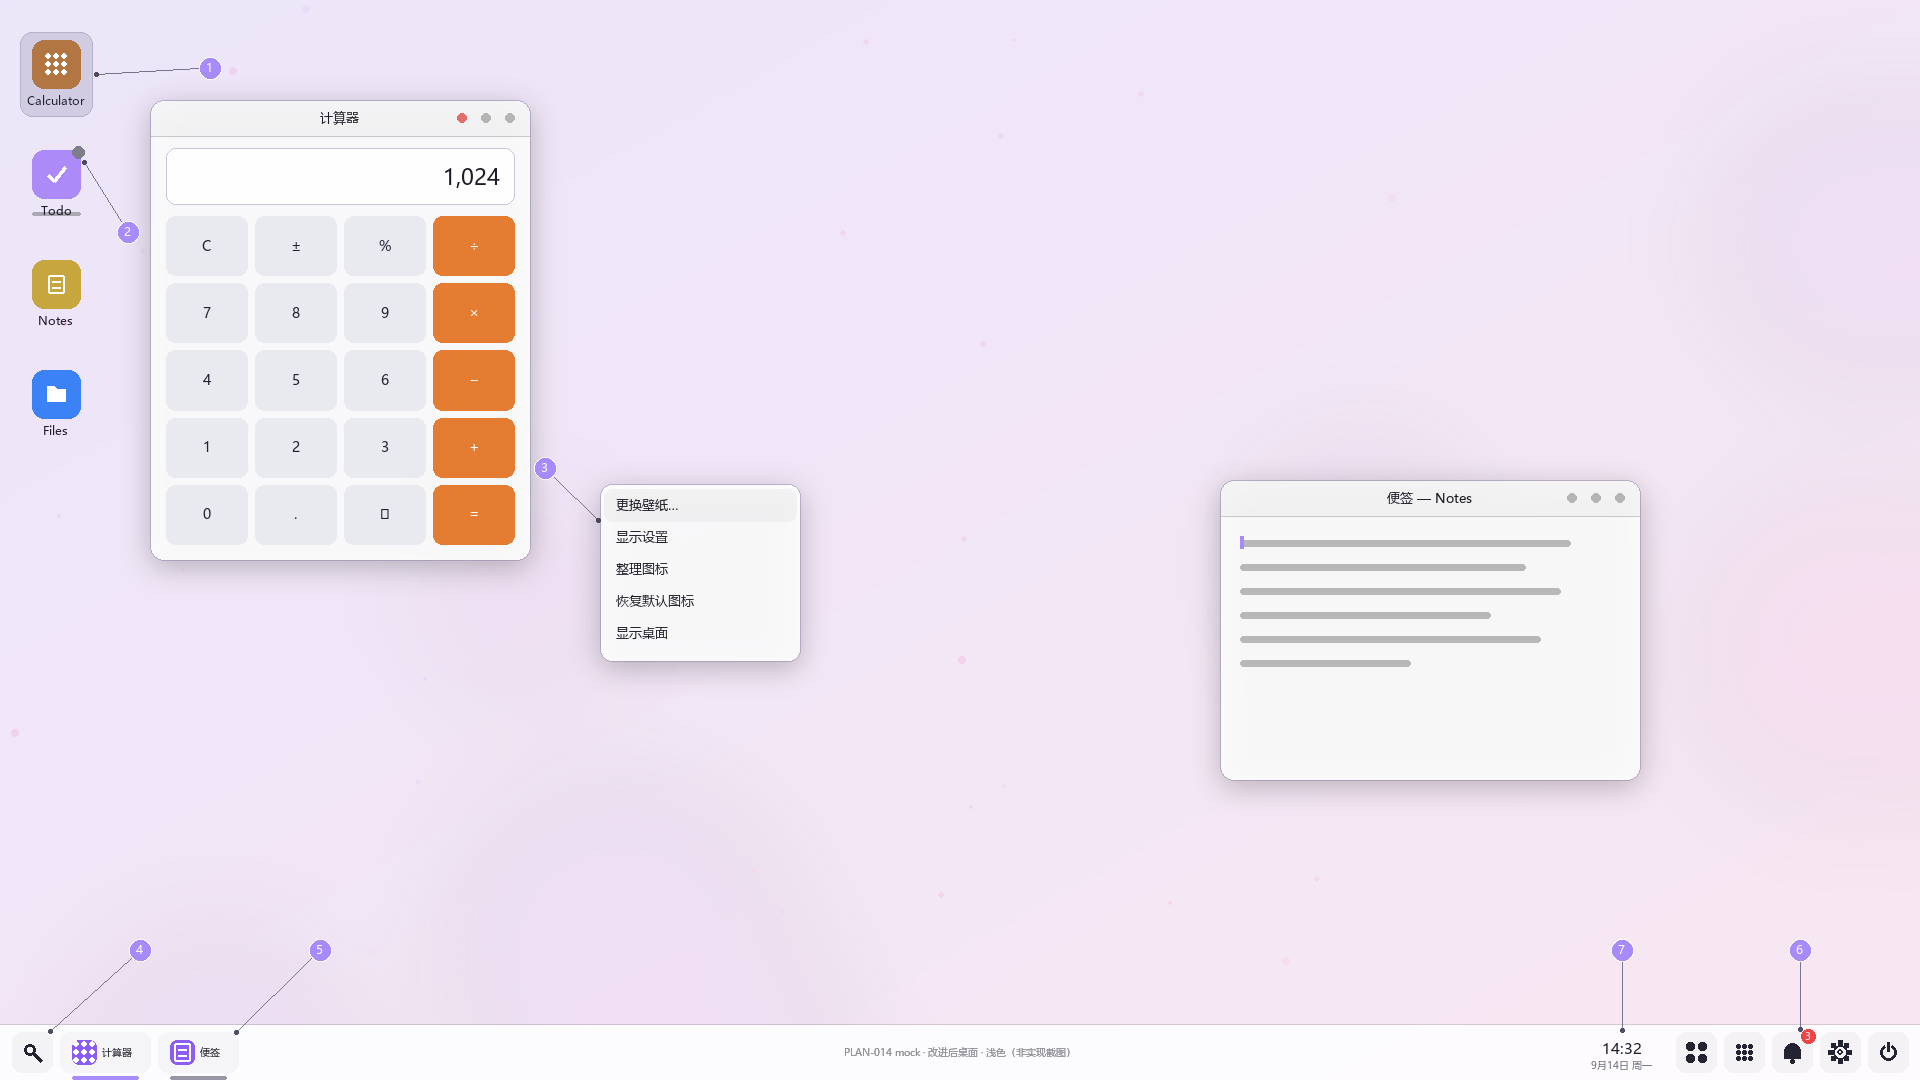
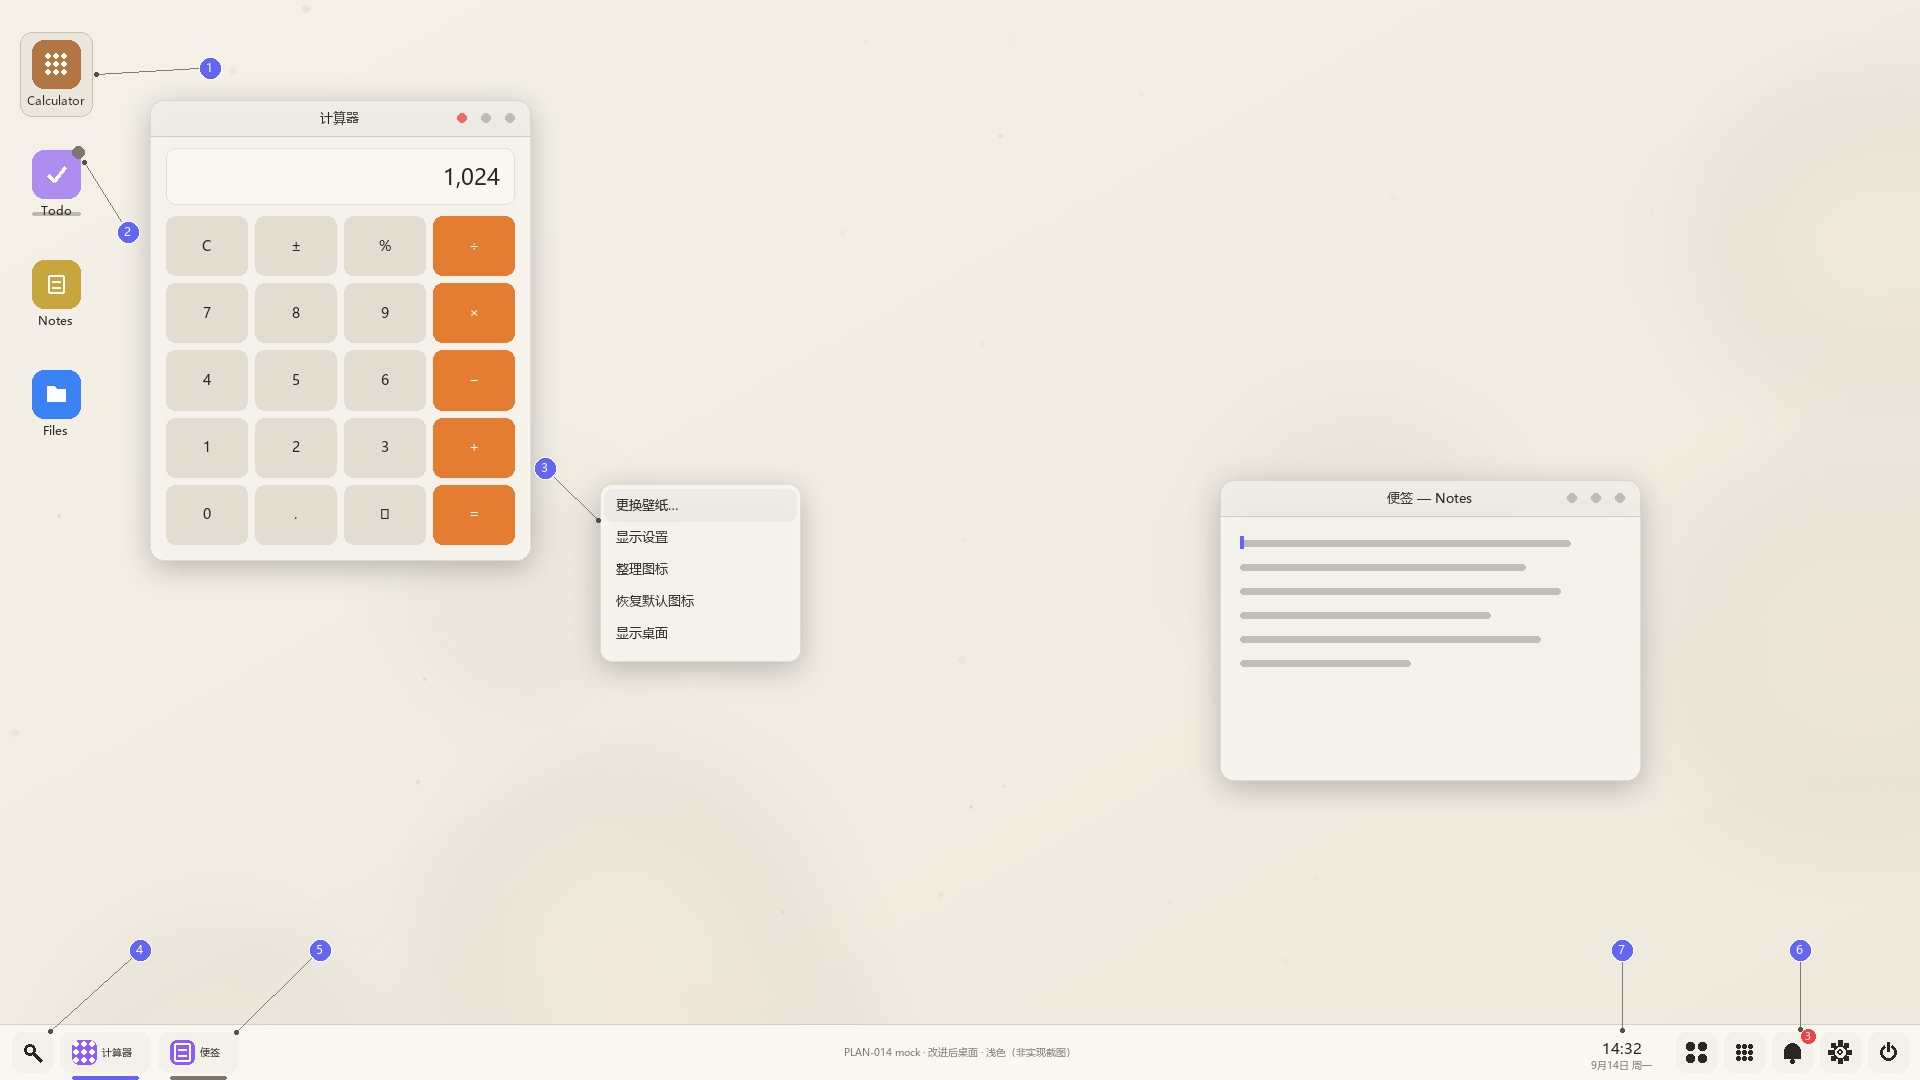
docs(plan014): 浅色 mock 按 stella light 实测 token 纠偏重画（#F5F1E8 奶油底/#6466F1 indigo accent，事实源 design_tokens/registry.rs；首轮误画 shadcn 粉紫通用浅色）；计划回填 stella 映射口径+双轨默认主题不一致挂 Q5（VM stella vs Vue scaffold）

diff --git a/tmp/os014_mock.py b/tmp/os014_mock.py
@@ -49,41 +49,44 @@ THEMES = {
         "preselect_fill": ACCENT_DEEP + (150,), "preselect_border": ACCENT + (220,), "preselect_text": WHITE,
         "thumb_fill": (255, 255, 255, 16), "thumb_border": (255, 255, 255, 45), "thumb_hatch": (255, 255, 255, 16),
         "fg": WHITE, "sub": (168, 168, 184),
+        "accent": ACCENT,
         "accent_text": ACCENT,
         "display_border": None,
         "leader": (255, 255, 255, 110), "leader_dot": (255, 255, 255, 170),
         "caption": (255, 255, 255, 105),
     },
     "light": {
-        "wall_c1": (236, 230, 250), "wall_c2": (249, 232, 243),
-        "blob_a": (196, 141, 235, 22), "blob_b": (244, 114, 182, 16),
-        "dot_pink": (244, 114, 182), "dot_white": (167, 139, 250),
-        "glass": (255, 255, 255, 230), "glass_border": (110, 100, 150, 85),
+        # stella light tokens（事实源 auto-lang design_tokens/registry.rs）
+        "wall_c1": (245, 241, 232), "wall_c2": (239, 233, 221),  # background #F5F1E8 → accent #EFE9DD
+        "blob_a": (226, 205, 165, 25), "blob_b": (210, 190, 160, 20),
+        "dot_pink": (222, 184, 135), "dot_white": (125, 119, 109),
+        "glass": (251, 248, 242, 230), "glass_border": (227, 221, 209, 235),  # card #FBF8F2 / border #E3DDD1
         "shadow_alpha": 60,
-        "titlebar_strip": (0, 0, 0, 7),
-        "sep": (0, 0, 0, 50),
-        "win_dot": (0, 0, 0, 70), "win_dot_close": (220, 60, 60, 190),
-        "display_bg": (255, 255, 255, 215), "display_fg": (28, 28, 40),
-        "key": (233, 233, 240), "key_fg": (35, 35, 50), "key_orange": (228, 124, 50), "key_orange_fg": WHITE,
-        "taskbar": (253, 253, 255, 235), "taskbar_line": (0, 0, 0, 35),
-        "btn_fill": (0, 0, 0, 9), "btn_fg": (35, 35, 50),
-        "entry_fill": (0, 0, 0, 7), "bar_blur": (150, 150, 165),
-        "clock_fg": (30, 30, 44), "clock_sub": (105, 105, 120),
-        "menu_bg": (255, 255, 255, 248), "hover": (0, 0, 0, 9),
-        "sel_block": (120, 120, 150, 60), "sel_block_border": (120, 120, 150, 120),
-        "launch_dot": (125, 125, 140), "launch_bar": (0, 0, 0, 70),
-        "note_line": (0, 0, 0, 65),
-        "status_bg": (0, 0, 0, 8), "status_border": (0, 0, 0, 60),
-        "ok": (22, 163, 74), "err": (220, 38, 38), "info": (100, 100, 116),
-        "close": (0, 0, 0, 110),
+        "titlebar_strip": (42, 39, 35, 10),
+        "sep": (42, 39, 35, 50),
+        "win_dot": (42, 39, 35, 70), "win_dot_close": (239, 68, 68, 200),  # destructive #EF4444
+        "display_bg": (251, 248, 242, 215), "display_fg": (42, 39, 35), "display_border": (227, 221, 209, 235),
+        "key": (227, 221, 209), "key_fg": (42, 39, 35), "key_orange": (228, 124, 50), "key_orange_fg": WHITE,
+        "taskbar": (251, 248, 242, 235), "taskbar_line": (42, 39, 35, 35),
+        "btn_fill": (42, 39, 35, 9), "btn_fg": (42, 39, 35),
+        "entry_fill": (42, 39, 35, 7), "bar_blur": (125, 119, 109),
+        "clock_fg": (42, 39, 35), "clock_sub": (125, 119, 109),  # foreground / muted-foreground #7D776D
+        "menu_bg": (251, 248, 242, 248), "hover": (0, 0, 0, 9),
+        "sel_block": (227, 221, 209, 120), "sel_block_border": (125, 119, 109, 100),
+        "launch_dot": (125, 119, 109), "launch_bar": (42, 39, 35, 70),
+        "note_line": (42, 39, 35, 65),
+        "status_bg": (42, 39, 35, 8), "status_border": (42, 39, 35, 60),
+        "ok": (34, 197, 94), "err": (239, 68, 68), "info": (59, 130, 246),  # #22C55E / #EF4444 / #3B82F6
+        "close": (42, 39, 35, 110),
         "hover_row": (0, 0, 0, 8),
-        "preselect_fill": ACCENT_DEEP + (215,), "preselect_border": ACCENT_DEEP + (255,), "preselect_text": WHITE,
-        "thumb_fill": (0, 0, 0, 10), "thumb_border": (0, 0, 0, 70), "thumb_hatch": (0, 0, 0, 20),
-        "fg": (28, 28, 40), "sub": (100, 100, 116),
-        "accent_text": ACCENT_DEEP,
-        "display_border": (110, 100, 150, 85),
-        "leader": (50, 50, 75, 160), "leader_dot": (50, 50, 75, 220),
-        "caption": (28, 28, 40, 120),
+        "preselect_fill": (100, 102, 241, 225), "preselect_border": (100, 102, 241, 255),
+        "preselect_text": (248, 250, 252),  # primary #6466F1 / primary-foreground #F8FAFC
+        "thumb_fill": (42, 39, 35, 10), "thumb_border": (42, 39, 35, 70), "thumb_hatch": (42, 39, 35, 20),
+        "fg": (42, 39, 35), "sub": (125, 119, 109),  # #2A2723 / #7D776D
+        "accent": (100, 102, 241),  # primary indigo
+        "accent_text": (100, 102, 241),
+        "leader": (60, 55, 45, 160), "leader_dot": (60, 55, 45, 220),
+        "caption": (125, 119, 109),  # #7D776D
     },
 }
 T = THEMES["dark"]
@@ -179,7 +182,7 @@ def annotate(base, num, cx, cy, tx, ty):
     sx, sy = cx + dx / dist * 12, cy + dy / dist * 12
     d.line([sx, sy, tx, ty], fill=T["leader"], width=1)
     d.ellipse([tx - 2, ty - 2, tx + 2, ty + 2], fill=T["leader_dot"])
-    d.ellipse([cx - 11, cy - 11, cx + 11, cy + 11], fill=ACCENT, outline=(255, 255, 255, 220), width=1)
+    d.ellipse([cx - 11, cy - 11, cx + 11, cy + 11], fill=T["accent"], outline=(255, 255, 255, 220), width=1)
     d.text((cx, cy - 0.5), str(num), font=F12B, fill=WHITE, anchor="mm")
     base.alpha_composite(ov)
 
@@ -375,7 +378,7 @@ def notes_window(base, box):
     for wln in widths:
         d.rounded_rectangle([x1 + 20, ly, x1 + 20 + wln, ly + 6], radius=3, fill=T["note_line"])
         ly += 24
-    d.rectangle([x1 + 20, y1 + 56, x1 + 23, y1 + 68], fill=ACCENT)
+    d.rectangle([x1 + 20, y1 + 56, x1 + 23, y1 + 68], fill=T["accent"])
     base.alpha_composite(ov)
 
 
@@ -416,7 +419,7 @@ def taskbar_entry(base, x, name, focused, glyph_fn):
     d.rounded_rectangle([x + 12, y + 16, x + 36, y + 40], radius=7, fill=CHIP[name] if name in CHIP else ACCENT_DEEP)
     glyph_fn(d, x + 24, y + 28)
     text(d, (x + 42, y + 28), name, F10, T["fg"], anchor="lm")
-    bar_col = ACCENT if focused else T["bar_blur"]
+    bar_col = T["accent"] if focused else T["bar_blur"]
     d.rounded_rectangle([x + 12, y + 52, x + w - 12, y + 55], radius=1.5, fill=bar_col)
     base.alpha_composite(ov)
     return x + w + 8

diff --git a/docs/plans/014-shell-ux-polish-v2.md b/docs/plans/014-shell-ux-polish-v2.md
@@ -24,15 +24,17 @@ total_steps: 14
 
 虚拟桌面 shell UX 打磨第二批。2026-09-14 代码+设计评审产出两轮建议（视觉缺陷
 /交互闭环/信息架构/协议债），mock 定稿四张（`docs/plans/evidence/014/`，
-**深/浅双主题同版式**——浅色沿用既有 shadcn 浅色主题色调：近白卡片/深
-foreground 文字/主题紫强调色不变，形式与深色完全统一；用户 2026-09-14
-审定）：
+**深/浅双主题同版式**——浅色按项目实际默认主题 **stella light** 实测 token
+映射（`auto-lang design_tokens/registry.rs`：背景 #F5F1E8 暖奶油纸色 /
+card #FBF8F2 / foreground #2A2723 / primary #6466F1 indigo / destructive
+#EF4444；深色 primary #9394F5 同色相提亮），形式与深色完全统一；用户
+2026-09-14 审定，浅色第一轮误画 shadcn 粉紫通用浅色已纠偏）：
 
 | 图 | 主题 | 标注 | 内容 |
 |----|------|------|------|
 | `014-mock-desktop.png` | 深色 | ①-⑦ | ①桌面图标紧凑左上+单击选中态 ②启动中指示 ③空白菜单扩充（含恢复入口） ④launcher 独立字形 ⑤运行/聚焦指示 ⑥未读角标圆形化 ⑦时钟+日期两行 |
 | `014-mock-panels.png` | 深色 | ⑧-⑩ | ⑧通知整行点击跳来源 ⑨时间戳/分组 ⑩切换器预选第 2 项 |
-| `014-mock-desktop-light.png` | 浅色 | ①-⑦ | 同上（浅色映射：选中块浅灰底/预选行紫底白字/hover 8% 黑底/引线深色档） |
+| `014-mock-desktop-light.png` | 浅色 | ①-⑦ | 同上（stella 浅色映射：选中块 #E3DDD1 半透明底/预选行 indigo 底白字/hover 8% 黑底/角标 #EF4444 不变） |
 | `014-mock-panels-light.png` | 浅色 | ⑧-⑩ | 同上 |
 
 与 **PLAN-012（shell-ux-feedback-batch）** 的关系：**串行，本计划排在 012 之后**
@@ -229,9 +231,12 @@ launcher 三处平行列表 + while 重建收敛为直接消费合同面（`__wm
 ## 测试设计
 
 - **双端纪律**：每个改动的验收 = auto-lang autoui-verifier 双端（Vue 轨 +
-  VM 轨）× **深/浅双主题**截图对照 mock（`evidence/014/` 四张——语义态
-  浅色映射口径：选中块浅灰底 / 预选行紫底白字 / hover 8% 黑底 / 角标与
-  语义色不变）+ 实机装配冒烟（`bash scripts/desktop.sh` / `desktop.ps1`）。
+  VM 轨）× **深/浅双主题**截图对照 mock（`evidence/014/` 四张——浅色一律
+  按 stella light token 验收，语义态浅色映射口径：选中块 #E3DDD1 半透明
+  底 / 预选行 #6466F1 底白字 / hover 8% 黑底 / 角标 #EF4444 与语义色不变）
+  + 实机装配冒烟（`bash scripts/desktop.sh` / `desktop.ps1`）。
+  注：Vue 轨运行时默认主题为 scaffold（白底），VM 轨默认 stella（奶油底）
+  ——双端截图各按本轨实际主题对拍，若要两轨统一默认主题另行裁定。
 - **宿主改动**（W-05 显示桌面臂 / W-06 日期注入 / W-08 app 记录 / W-11
   标题兜底 / W-12 注入面）：auto-lang 侧 hand 测试或既有宿主冒烟脚本，
   不在 auto-lang 跑 `cargo t`（Category A）。
@@ -311,3 +316,7 @@ launcher 三处平行列表 + while 重建收敛为直接消费合同面（`__wm
 - Q4（W-09）：~~若 PLAN-012 先行落地外点 dismiss~~ **已澄清**——012
   execution_done 时外点关闭已落（popover ondismiss 模式），W-09 按退化
   执行（核对补死角）。
+- Q5（主题基调，2026-09-14 主题 token 调查新增）：双轨默认主题不一致——
+  VM 轨缺省 **stella**（theme/mod.rs:42-45），Vue 轨运行时缺省 **scaffold**
+  （ui_gen/vue.rs:16480，白底）。本计划验收两轨各按本轨实际主题对拍；是否
+  统一默认主题（如 Vue 轨也归 stella）不在本计划范围，留用户裁定。
